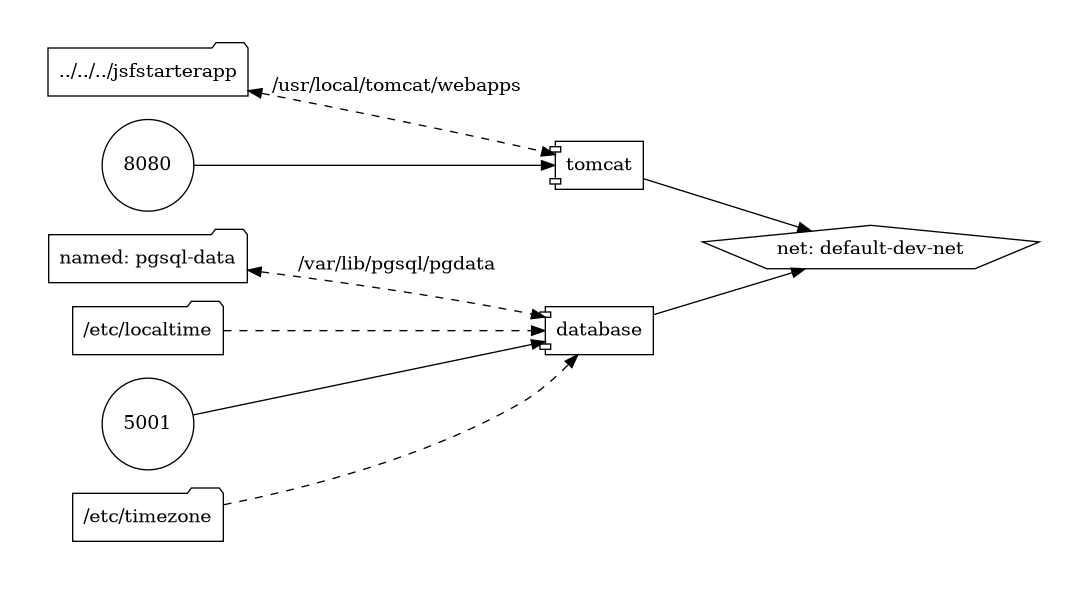
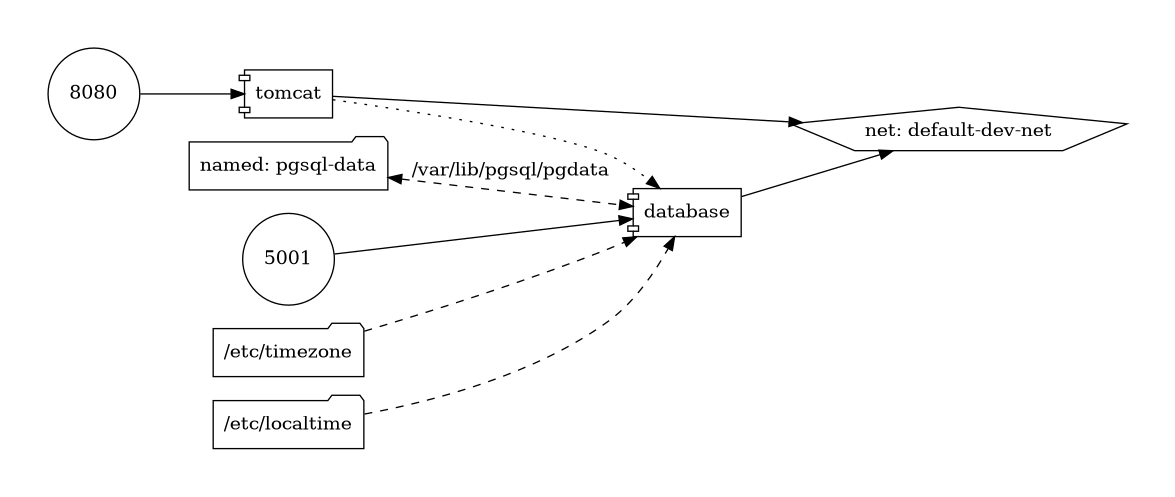
docs: update documentation

diff --git a/README.md b/README.md
@@ -33,14 +33,13 @@ Para este projeto em particular, adaptei esse esquema da seguinte forma:
 ./infra
 ├── docker
 │   ├── develop                     # Infra do ambiente de desenvolvimento (similar para produção)
-│   │   ├── jsfstarterapp           # Aplicação JavaServer Faces
 │   │   ├── tomcat                  # Servidor Apache Tomcat v8.5.6
 │   │   ├── database                # Serviço PostgreSQL (banco de dados relacional)
 │   │   └── docker-compose.yml      # Declaração dos serviços em manifesto YAML
 │   └── production                  # Estrutura similar para produção)
 │       └── ...
 ├── resources                       # Recursos estáticos associados à documentação do projeto e correlatos
-├── jsfstarterapp                   # Implementação da aplicação propriamente dita
+├── companyman                      # Implementação da aplicação JSF/PF propriamente dita
 │   └── ...
 ├── scripts                         # Pasta com scripts que facilitam a automação do projeto
 ├── Makefile                        # Agrega os comandos 'make' que facilitam a manipulação do Docker Compose e dos scripts na pasta supracitada
@@ -95,7 +94,6 @@ Na raíz do projeto, execute os seguintes comandos:
 $ make build env=dev                # Realiza o build das imagens de todos os serviços, em ./infra/docker/develop/[nome-do-serviço]/Dockerfile
 $ make start env=dev c=database     # Inicia o banco de dados PostgreSQL, em modo detached (sem logs)  
 $ make start env=dev c=tomcat       # Inicia o Apache Tomcat, em modo detached (sem logs)
-$ make start env=dev c=starterapp   # Inicia a aplicação de ERP
 ```
 
 > [!IMPORTANT]